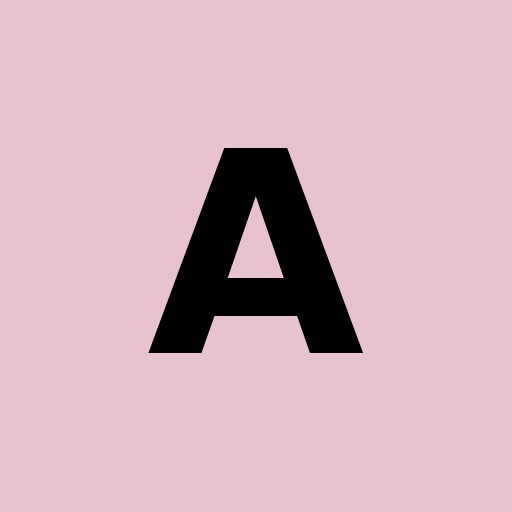
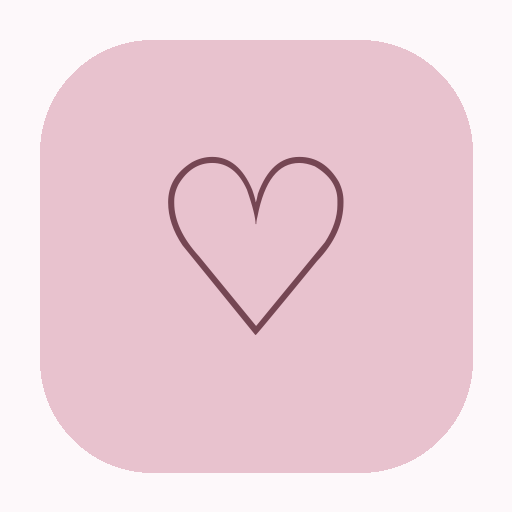
Add files via upload

diff --git a/MainActivity.kt b/MainActivity.kt
@@ -1,0 +1,87 @@
+package com.gemasjallaza.alizee
+
+import android.app.Activity
+import android.os.Bundle
+import android.webkit.*
+import android.content.Intent
+import android.net.Uri
+import android.view.View
+import android.view.WindowManager
+
+class MainActivity : Activity() {
+    private lateinit var web: WebView
+    private var fileCallback: ValueCallback<Array<Uri>>? = null
+    private val fileRequest = 701
+
+    override fun onCreate(savedInstanceState: Bundle?) {
+        super.onCreate(savedInstanceState)
+        window.statusBarColor = android.graphics.Color.rgb(232,194,206)
+        window.navigationBarColor = android.graphics.Color.rgb(253,248,250)
+        window.decorView.systemUiVisibility = View.SYSTEM_UI_FLAG_LIGHT_STATUS_BAR
+        web = WebView(this)
+        web.settings.javaScriptEnabled = true
+        web.settings.domStorageEnabled = true
+        web.settings.allowFileAccess = true
+        web.settings.allowContentAccess = true
+        web.settings.databaseEnabled = true
+        web.settings.javaScriptCanOpenWindowsAutomatically = false
+        web.webViewClient = object : WebViewClient() {
+            override fun shouldOverrideUrlLoading(view: WebView?, request: WebResourceRequest?): Boolean {
+                val url = request?.url ?: return false
+                if (url.scheme == "file" || url.scheme == "about") return false
+                return try {
+                    startActivity(Intent(Intent.ACTION_VIEW, url))
+                    true
+                } catch (_: Exception) { true }
+            }
+        }
+        web.webChromeClient = object : WebChromeClient() {
+            override fun onShowFileChooser(
+                view: WebView?,
+                callback: ValueCallback<Array<Uri>>?,
+                params: FileChooserParams?
+            ): Boolean {
+                fileCallback?.onReceiveValue(null)
+                fileCallback = callback
+                val intent = params?.createIntent() ?: Intent(Intent.ACTION_GET_CONTENT).apply {
+                    type = "image/*"
+                    addCategory(Intent.CATEGORY_OPENABLE)
+                }
+                return try {
+                    startActivityForResult(intent, fileRequest)
+                    true
+                } catch (_: Exception) {
+                    fileCallback = null
+                    false
+                }
+            }
+        }
+        setContentView(web)
+        if (savedInstanceState == null) {
+            web.loadUrl("file:///android_asset/www/index.html")
+        } else {
+            web.restoreState(savedInstanceState)
+        }
+    }
+
+    override fun onActivityResult(requestCode: Int, resultCode: Int, data: Intent?) {
+        super.onActivityResult(requestCode, resultCode, data)
+        if (requestCode == fileRequest) {
+            val result = if (resultCode == RESULT_OK && data != null) {
+                WebChromeClient.FileChooserParams.parseResult(resultCode, data)
+            } else null
+            fileCallback?.onReceiveValue(result)
+            fileCallback = null
+        }
+    }
+
+    override fun onSaveInstanceState(outState: Bundle) {
+        web.saveState(outState)
+        super.onSaveInstanceState(outState)
+    }
+
+    @Deprecated("Deprecated in Java")
+    override fun onBackPressed() {
+        if (::web.isInitialized && web.canGoBack()) web.goBack() else super.onBackPressed()
+    }
+}

diff --git a/sw.js b/sw.js
@@ -1,59 +1,1 @@
-
-const CACHE = 'alizee-app-v7-2';
-const CACHE_PREFIX = 'alizee-app-';
-
-const FILES = [
-  './',
-  './index.html',
-  './app.js',
-  './manifest.webmanifest',
-  './icon-192.png',
-  './icon-512.png'
-];
-
-self.addEventListener('install', event => {
-  self.skipWaiting();
-
-  event.waitUntil(
-    caches.open(CACHE).then(cache => cache.addAll(FILES))
-  );
-});
-
-self.addEventListener('activate', event => {
-  event.waitUntil(
-    caches.keys()
-      .then(keys => Promise.all(
-        keys
-          .filter(key =>
-            key.startsWith(CACHE_PREFIX) &&
-            key !== CACHE
-          )
-          .map(key => caches.delete(key))
-      ))
-      .then(() => self.clients.claim())
-  );
-});
-
-self.addEventListener('fetch', event => {
-  if (event.request.method !== 'GET') return;
-
-  event.respondWith(
-    fetch(event.request)
-      .then(response => {
-        if (response.ok) {
-          const copy = response.clone();
-
-          caches.open(CACHE).then(cache =>
-            cache.put(event.request, copy)
-          );
-        }
-
-        return response;
-      })
-      .catch(async () => {
-        const cache = await caches.open(CACHE);
-        return await cache.match(event.request) ||
-          Response.error();
-      })
-  );
-});
+// No se necesita service worker: los recursos están incluidos en la app Android.

diff --git a/index.html b/index.html
@@ -42,7 +42,6 @@ button.danger{background:#fff0f0;color:var(--red);border:1px solid #f0d6d6;borde
 footer{text-align:center;color:var(--muted);font-size:11px;padding:18px}
 @media(max-width:430px){.grid{grid-template-columns:1fr}.stats{grid-template-columns:1fr 1fr}}
 @media print{body{background:white}header,nav,.noprint,footer{display:none!important}main{padding:0}.card{border:0;box-shadow:none;padding:0}.report{border:0}.report h3{margin-top:0}}
-
 .reportline b,.reportline strong{font-weight:850}
 .daylabel span{font-weight:750}
 nav button{font-weight:750}
